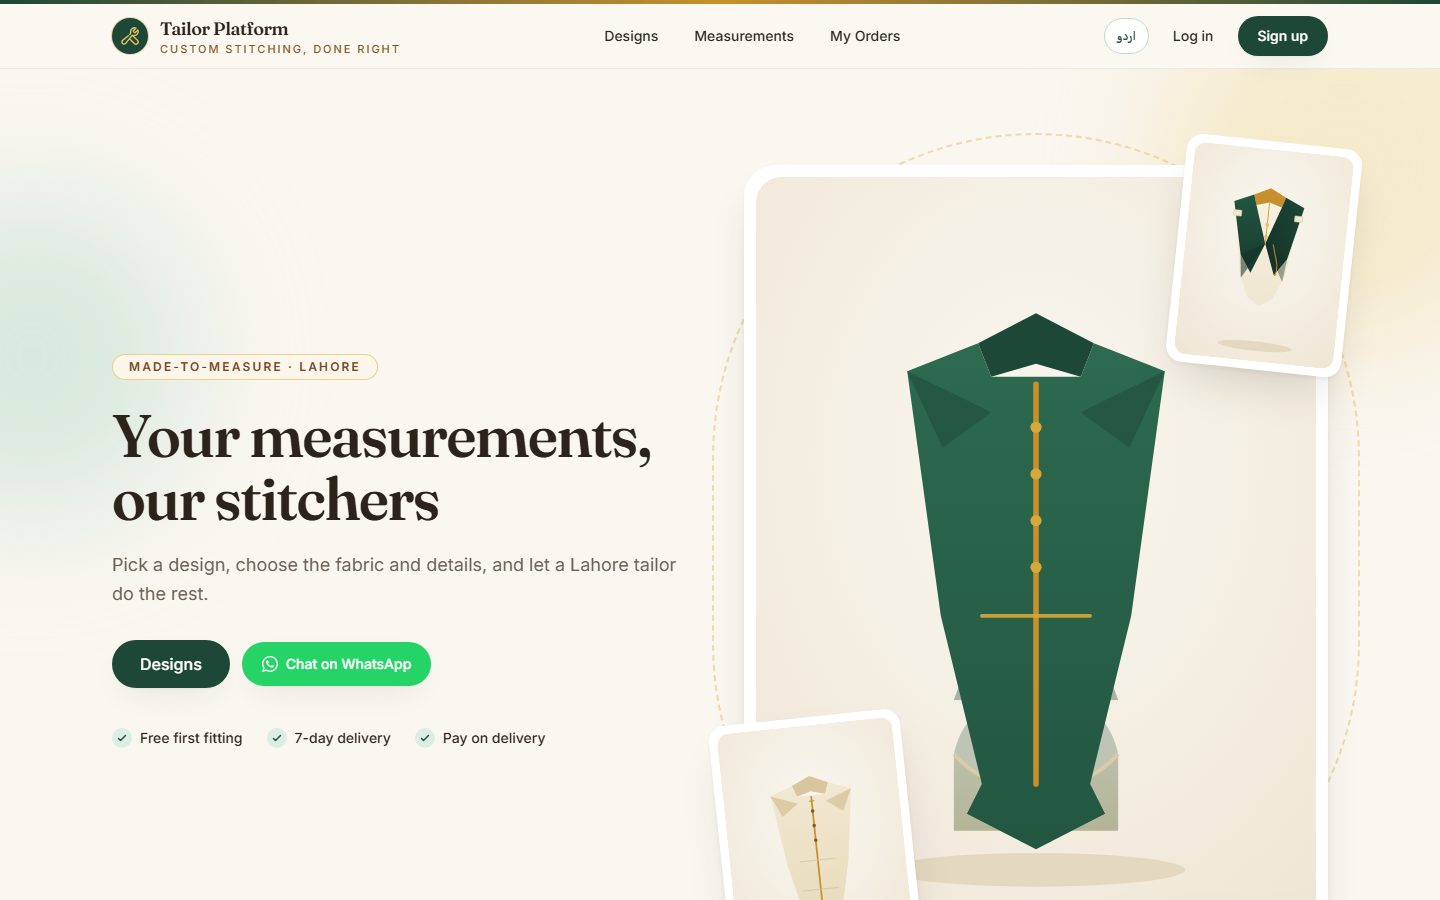
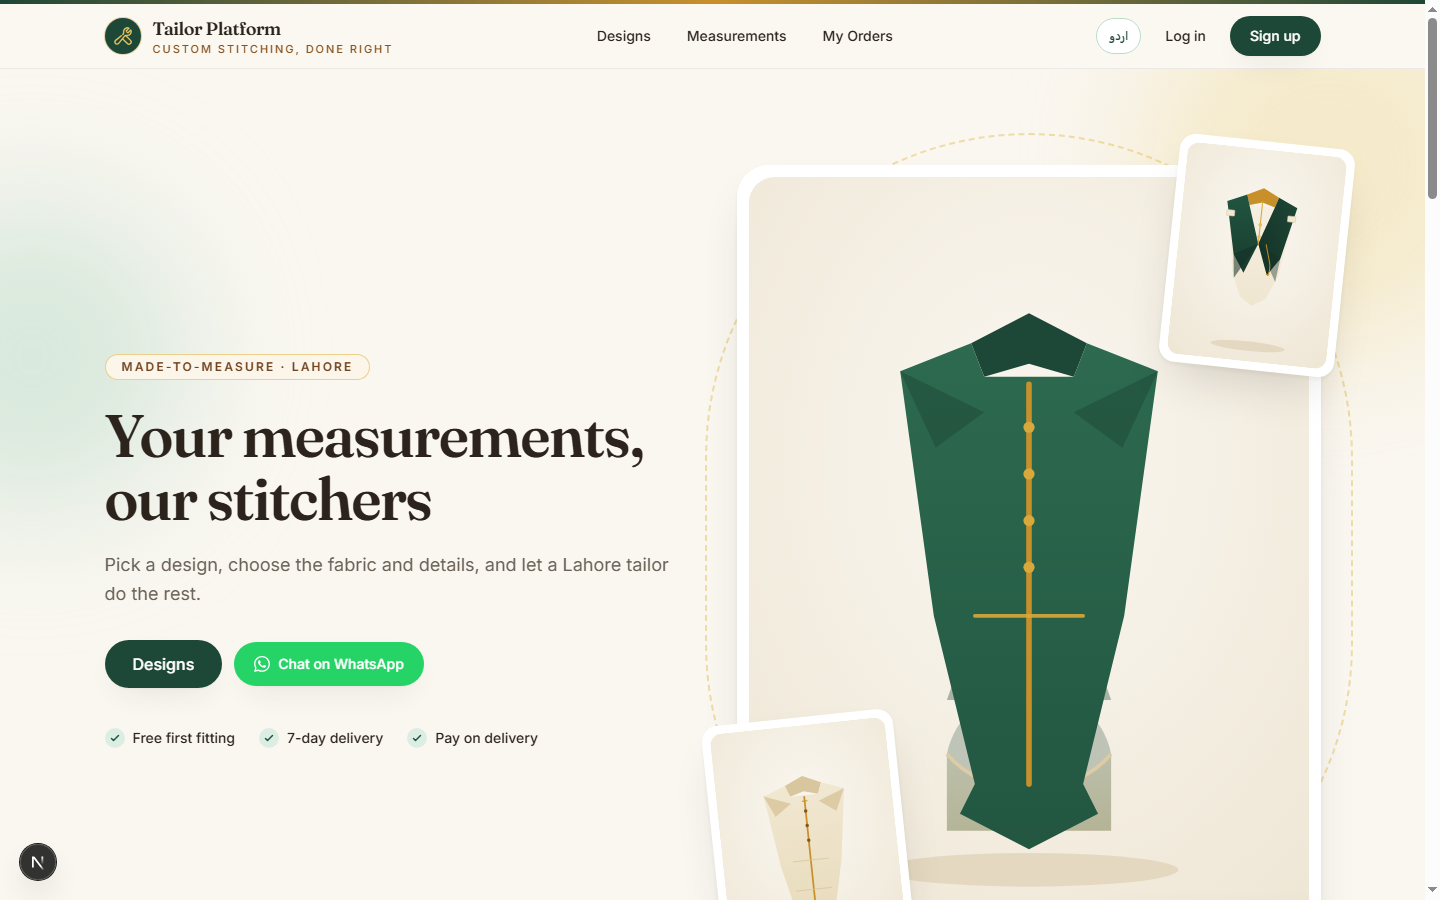
docs: add README with app screenshots

diff --git a/README.md b/README.md
@@ -1,0 +1,76 @@
+# Tailor Platform
+
+A local tailor website for Lahore: browse the design catalog, get custom
+stitching orders with customer price offers, keep measurements on file, and
+manage everything from a tailor dashboard. Phase 1 is a working ordering
+business (no AI); Phase 2 stubs out AI Style Preview with a graceful 501.
+
+<table>
+<tr>
+<td><strong>Home</strong> — brand story, featured designs, how-ordering-works</td>
+<td><img src="docs/screenshots/home.png" alt="Home page" width="100%" /></td>
+</tr>
+<tr>
+<td><strong>Catalog</strong> — designs with pricing, filters and Style Preview</td>
+<td><img src="docs/screenshots/catalog.png" alt="Design catalog page" width="100%" /></td>
+</tr>
+<tr>
+<td><strong>Design detail</strong> — fabrics, stitching options, reviews, preview</td>
+<td><img src="docs/screenshots/design.png" alt="Design detail page" width="100%" /></td>
+</tr>
+<tr>
+<td><strong>Login</strong> — customers and tailors sign in with phone + password</td>
+<td><img src="docs/screenshots/login.png" alt="Login page" width="100%" /></td>
+</tr>
+</table>
+
+## How it works
+
+1. **Browse the catalog** — men's and women's designs (Shalwar Kameez, Kurta,
+   Waistcoat, Suits) with base prices and fabric options.
+2. **Customize & order** — pick a fabric and stitching options, add your saved
+   measurements, and optionally **propose your own price** as a non-binding
+   offer. The shop confirms the final price before stitching starts.
+3. **Track status** — orders move through a locked flow:
+   `PLACED → ACCEPTED → MEASUREMENTS_CONFIRMED → STITCHING → QUALITY_CHECK → READY → DELIVERED`
+   (plus `CANCELLED` before delivery).
+4. **Tailor dashboard** — accept orders, counter price offers, update
+   measurements and stitching status, and manage the design catalog.
+5. **Review after delivery** — customers rate and review their finished order.
+
+## Tech stack
+
+| Layer    | Tech                                                          |
+| -------- | ------------------------------------------------------------- |
+| Frontend | Next.js 15 (App Router, TS) + Tailwind CSS 4 + Zustand 5      |
+| Backend  | Express 5 (TS) + Prisma 6 + PostgreSQL 16                     |
+| Tests    | Backend: Jest 30 + Supertest · Frontend: Vitest 5 + RTL 16    |
+| Tooling  | npm workspaces, Prettier, ESLint 9 (flat config), Docker      |
+
+## Getting started
+
+```bash
+npm install            # root, installs both workspaces
+npm run db:up          # start Postgres (docker)
+npm run db:migrate     # prisma migrate dev
+npm run db:seed        # demo tailor + designs
+npm run dev            # backend :4000 + frontend :3000
+npm test               # backend Jest + frontend Vitest
+npm run lint           # ESLint both workspaces
+npm run typecheck      # tsc --noEmit both workspaces
+```
+
+Demo logins: tailor `03001234567` / `password123`, customer `03007654321` / `password123`.
+
+## Notes
+
+- Money is PKR, computed and stored server-side (frontend mirrors for display only).
+- UI is bilingual (English + Urdu, RTL-aware).
+- API contract: [`docs/api-contract.md`](docs/api-contract.md).
+- Product plan: [`PRODUCT-PLAN.md`](PRODUCT-PLAN.md).
+
+## Suggested repo meta
+
+- **Name:** `tailor-platform`
+- **Description:** Custom stitching & tailoring platform for Lahore shops — design catalog, customer price offers, saved measurements, and a tailor dashboard (Next.js + Express + Prisma/PostgreSQL).
+- **Tags:** `nextjs`, `express`, `prisma`, `postgresql`, `typescript`, `tailwindcss`, `zustand`, `ecommerce`, `custom-tailoring`
